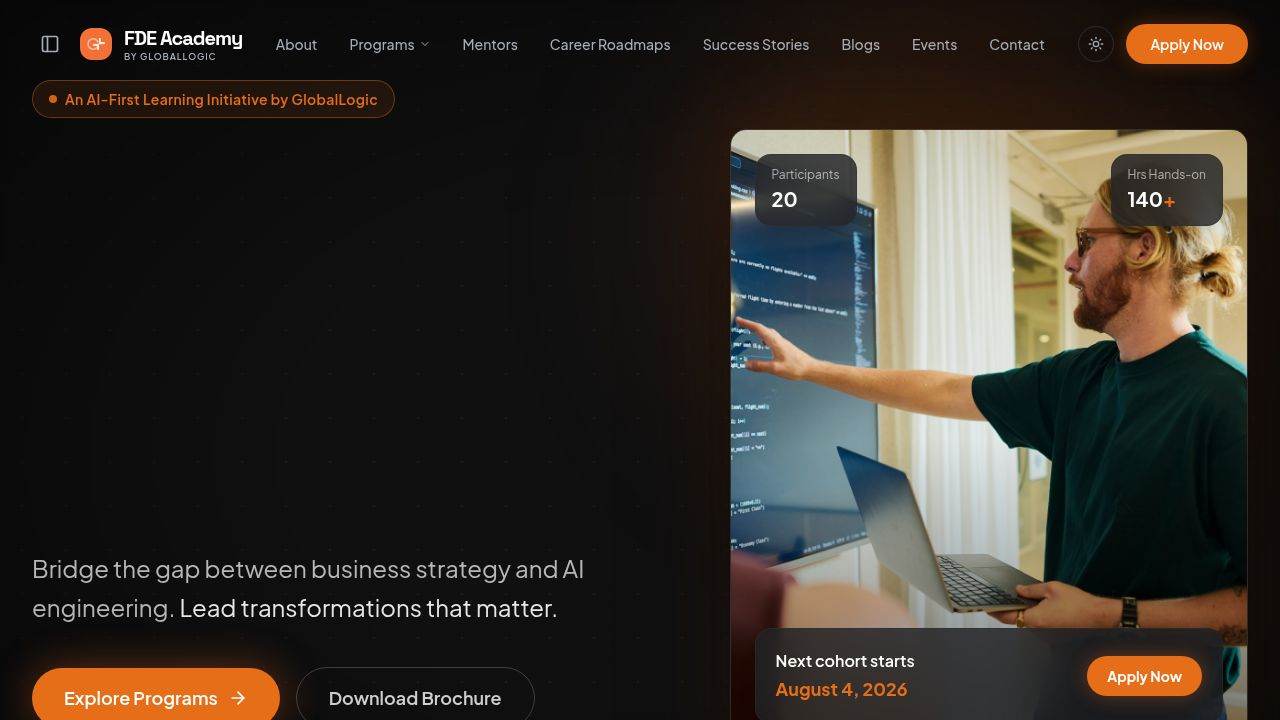
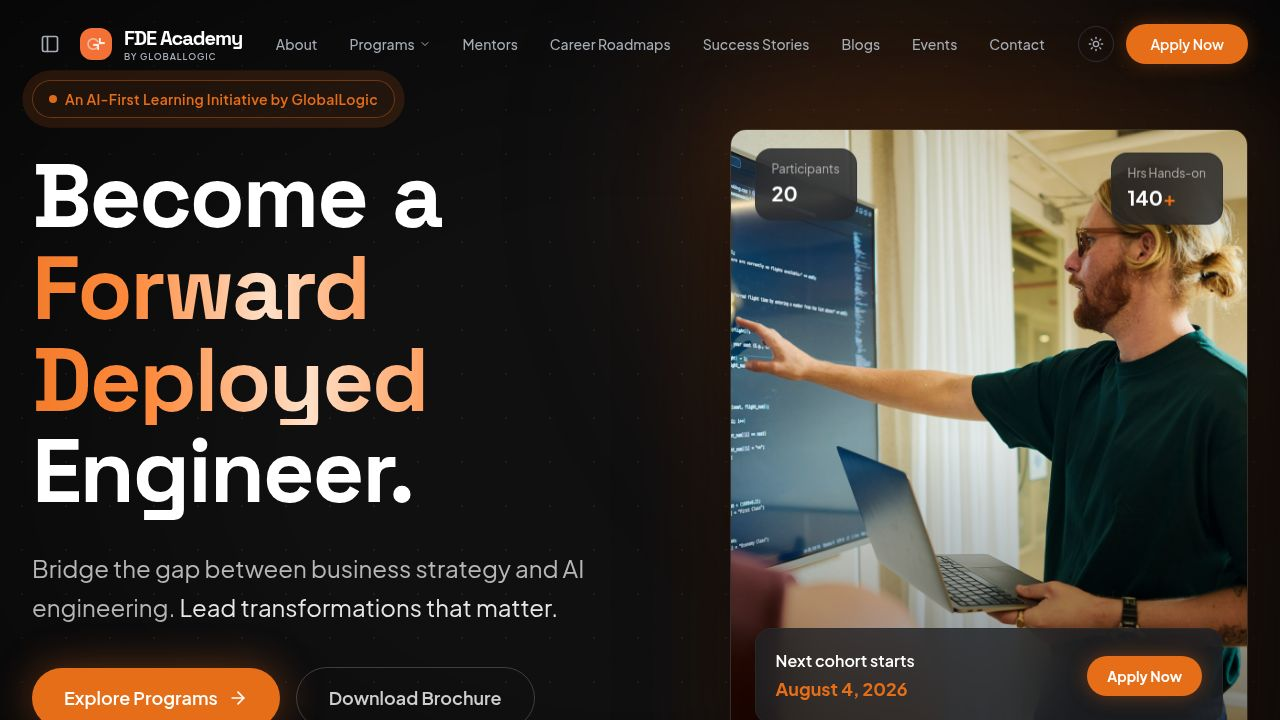
Remove the program comparison section from the homepage
Remove ProgramComparison component import and usage from HomePage.tsx.

Replit-Commit-Author: Agent
Replit-Commit-Session-Id: d5d497d3-5da3-40f9-b49d-7d5c3db0215b
Replit-Commit-Checkpoint-Type: full_checkpoint
Replit-Commit-Event-Id: 74b2f1f8-e01c-430f-bc54-2e2f789ca98d
Replit-Commit-Screenshot-Url: https://storage.googleapis.com/screenshot-production-us-central1/78d2c4bd-3cc2-46dc-b259-6253dfe15b29/d5d497d3-5da3-40f9-b49d-7d5c3db0215b/0JqiLqZ
Replit-Helium-Checkpoint-Created: true

diff --git a/Frontend/artifacts/fde-campus/src/pages/HomePage.tsx b/Frontend/artifacts/fde-campus/src/pages/HomePage.tsx
@@ -6,7 +6,6 @@ import { WhatIsFDE } from '@/components/sections/WhatIsFDE';
 import { IndustryChallenge } from '@/components/sections/IndustryChallenge';
 import { CareerProgression } from '@/components/sections/CareerProgression';
 import { ProgramsSection } from '@/components/sections/Programs';
-import { ProgramComparison } from '@/components/sections/ProgramComparison';
 import { Curriculum } from '@/components/sections/Curriculum';
 import { CapabilityPillars } from '@/components/sections/CapabilityPillars';
 import { LearningActivities } from '@/components/sections/LearningActivities';
@@ -36,7 +35,6 @@ export function HomePage() {
         <IndustryChallenge />
         <CareerProgression />
         <ProgramsSection />
-        <ProgramComparison />
         <Curriculum />
         <SignatureActivities />
         <BusinessImpact />